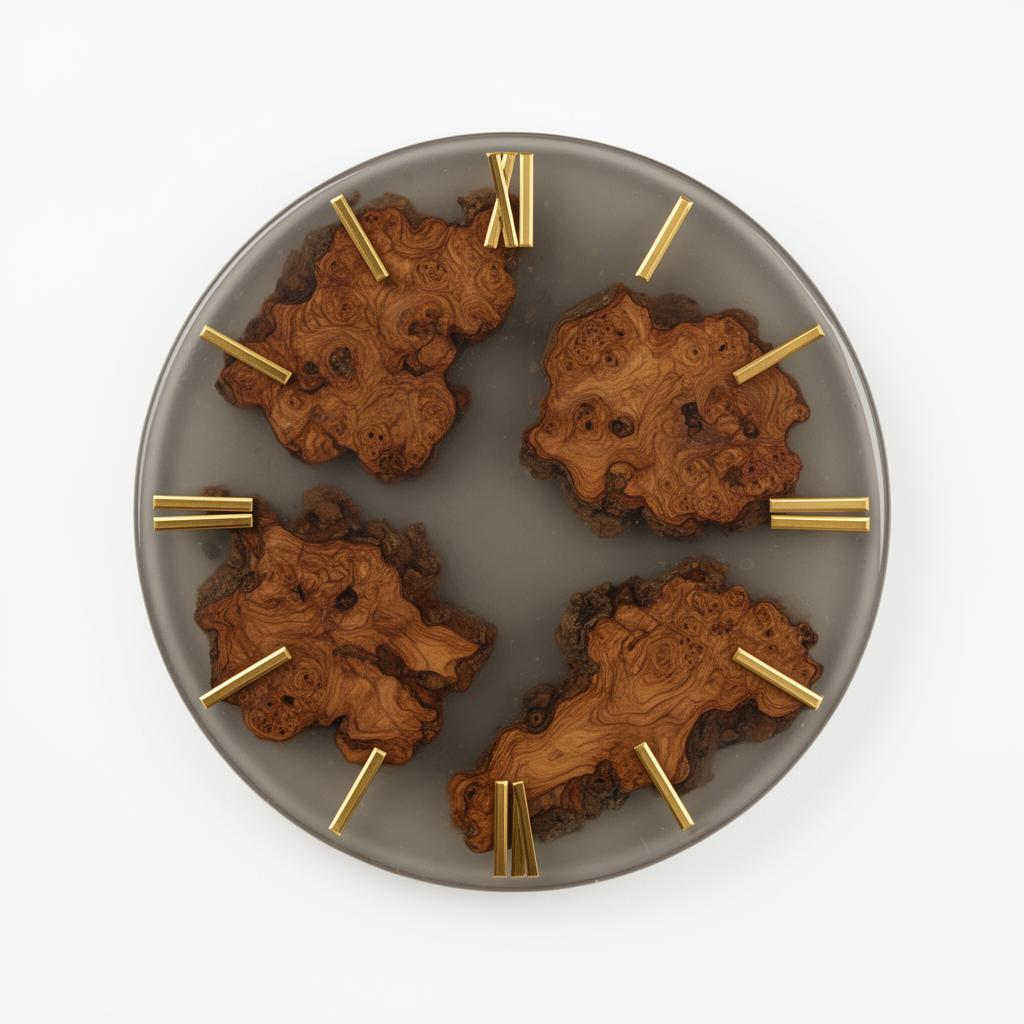
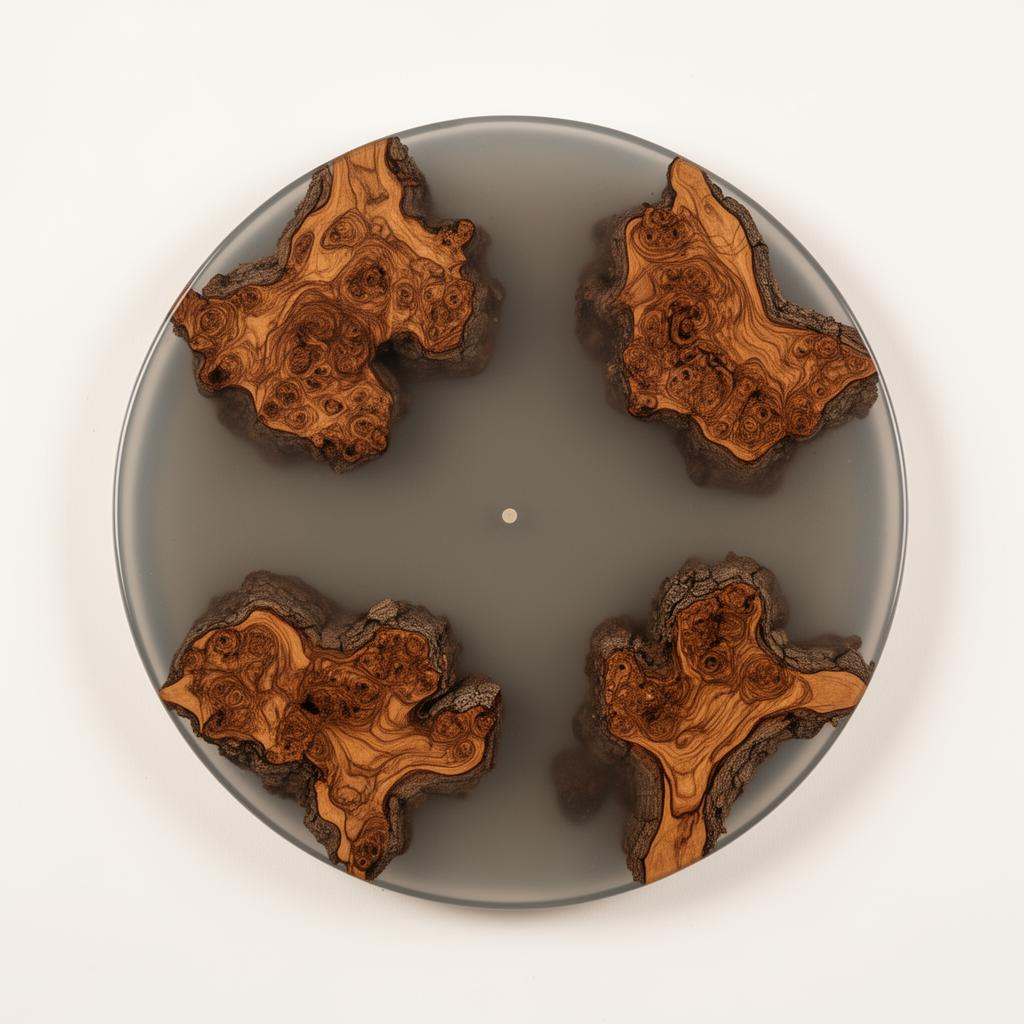
Refine hero clock realism

diff --git a/src/components/HeroClock.tsx b/src/components/HeroClock.tsx
@@ -1,12 +1,52 @@
 import { useEffect, useRef, useState } from "react";
 import clockFace from "@/assets/clock-face-epoxy.png";
 
-const SIZE = 340;
-const C = SIZE / 2;
-const HOUR_LEN = 68;
-const MIN_LEN = 95;
-const SEC_LEN = 108;
-const SEC_TAIL = 22;
+const VIEWBOX_SIZE = 460;
+const CENTER = VIEWBOX_SIZE / 2;
+const MARKER_Y = 44;
+const MARKER_WIDTH = 12;
+const MARKER_HEIGHT = 36;
+
+const HOUR_HAND = `
+  M ${CENTER - 12} ${CENTER + 18}
+  C ${CENTER - 13} ${CENTER - 8}, ${CENTER - 18} ${CENTER - 40}, ${CENTER - 17} ${CENTER - 68}
+  C ${CENTER - 15} ${CENTER - 94}, ${CENTER - 11} ${CENTER - 118}, ${CENTER - 7} ${CENTER - 142}
+  L ${CENTER - 1} ${CENTER - 154}
+  L ${CENTER + 7} ${CENTER - 143}
+  C ${CENTER + 12} ${CENTER - 118}, ${CENTER + 16} ${CENTER - 94}, ${CENTER + 17} ${CENTER - 68}
+  C ${CENTER + 18} ${CENTER - 40}, ${CENTER + 13} ${CENTER - 8}, ${CENTER + 12} ${CENTER + 18}
+  Z
+  M ${CENTER + 10} ${CENTER - 96}
+  L ${CENTER + 31} ${CENTER - 115}
+  L ${CENTER + 17} ${CENTER - 79}
+  Z
+`;
+
+const MINUTE_HAND = `
+  M ${CENTER - 9} ${CENTER + 20}
+  C ${CENTER - 11} ${CENTER - 10}, ${CENTER - 14} ${CENTER - 64}, ${CENTER - 14} ${CENTER - 118}
+  C ${CENTER - 13} ${CENTER - 150}, ${CENTER - 9} ${CENTER - 178}, ${CENTER - 5} ${CENTER - 202}
+  L ${CENTER} ${CENTER - 216}
+  L ${CENTER + 7} ${CENTER - 202}
+  C ${CENTER + 11} ${CENTER - 178}, ${CENTER + 14} ${CENTER - 150}, ${CENTER + 14} ${CENTER - 118}
+  C ${CENTER + 14} ${CENTER - 64}, ${CENTER + 11} ${CENTER - 10}, ${CENTER + 9} ${CENTER + 20}
+  Z
+  M ${CENTER - 12} ${CENTER - 144}
+  L ${CENTER - 38} ${CENTER - 168}
+  L ${CENTER - 18} ${CENTER - 126}
+  Z
+`;
+
+const SECOND_HAND = `
+  M ${CENTER - 2} ${CENTER + 18}
+  L ${CENTER - 1} ${CENTER - 178}
+  L ${CENTER} ${CENTER - 196}
+  L ${CENTER + 2} ${CENTER - 178}
+  L ${CENTER + 3} ${CENTER + 18}
+  Z
+`;
+
+const markerAngles = Array.from({ length: 12 }, (_, index) => index * 30);
 
 const HeroClock = () => {
   const rafRef = useRef<number>(0);
@@ -15,77 +55,115 @@ const HeroClock = () => {
   useEffect(() => {
     const tick = () => {
       const now = new Date();
-      const ms = now.getMilliseconds();
-      const sec = now.getSeconds() + ms / 1000;
-      const min = now.getMinutes() + sec / 60;
-      const hr = (now.getHours() % 12) + min / 60;
-      setAngles({ h: hr * 30, m: min * 6, s: sec * 6 });
+      const milliseconds = now.getMilliseconds();
+      const seconds = now.getSeconds() + milliseconds / 1000;
+      const minutes = now.getMinutes() + seconds / 60;
+      const hours = (now.getHours() % 12) + minutes / 60;
+
+      setAngles({
+        h: hours * 30,
+        m: minutes * 6,
+        s: seconds * 6,
+      });
+
       rafRef.current = requestAnimationFrame(tick);
     };
+
     rafRef.current = requestAnimationFrame(tick);
     return () => cancelAnimationFrame(rafRef.current);
   }, []);
 
   return (
-    <div className="relative inline-block" style={{ width: SIZE, height: SIZE }}>
-      {/* Clock face image — no shadow, no extra styles */}
+    <div className="relative mx-auto h-[380px] w-[380px] sm:h-[420px] sm:w-[420px] md:h-[450px] md:w-[450px]">
       <img
         src={clockFace}
-        alt="Epoxy resin and wood clock"
-        width={SIZE}
-        height={SIZE}
-        className="absolute inset-0 w-full h-full object-cover rounded-full"
-        style={{ clipPath: "circle(48% at center)" }}
+        alt="Premium epoxy resin and wood wall clock"
+        width={1024}
+        height={1024}
+        className="absolute inset-0 h-full w-full rounded-full object-cover"
+        style={{ clipPath: "circle(49.2% at 50% 50%)" }}
         draggable={false}
       />
 
-      {/* SVG hands overlay — exactly same size, centered */}
       <svg
-        width={SIZE}
-        height={SIZE}
-        viewBox={`0 0 ${SIZE} ${SIZE}`}
-        className="absolute inset-0 w-full h-full"
+        viewBox={`0 0 ${VIEWBOX_SIZE} ${VIEWBOX_SIZE}`}
+        className="absolute inset-0 h-full w-full"
+        aria-hidden="true"
         style={{ pointerEvents: "none" }}
       >
         <defs>
-          <linearGradient id="goldH" x1="0" y1="0" x2="0" y2="1">
-            <stop offset="0%" stopColor="#e8c44a" />
-            <stop offset="100%" stopColor="#b8942e" />
+          <linearGradient id="woodFill" x1="0%" y1="0%" x2="100%" y2="100%">
+            <stop offset="0%" stopColor="hsl(24 47% 48%)" />
+            <stop offset="45%" stopColor="hsl(20 43% 35%)" />
+            <stop offset="100%" stopColor="hsl(18 39% 24%)" />
           </linearGradient>
-          <filter id="hShadow">
-            <feDropShadow dx="0.5" dy="1" stdDeviation="1" floodColor="#000" floodOpacity="0.3" />
+
+          <linearGradient id="woodSheen" x1="0%" y1="0%" x2="0%" y2="100%">
+            <stop offset="0%" stopColor="hsl(34 52% 58% / 0.45)" />
+            <stop offset="100%" stopColor="hsl(18 36% 16% / 0.1)" />
+          </linearGradient>
+
+          <filter id="woodDepth" x="-30%" y="-30%" width="160%" height="160%">
+            <feDropShadow dx="0.4" dy="1.6" stdDeviation="1.4" floodColor="hsl(18 28% 14% / 0.32)" />
+          </filter>
+
+          <filter id="pivotDepth" x="-50%" y="-50%" width="200%" height="200%">
+            <feDropShadow dx="0.5" dy="1.2" stdDeviation="1.2" floodColor="hsl(20 22% 12% / 0.28)" />
           </filter>
         </defs>
 
-        {/* Hour hand */}
-        <line
-          x1={C} y1={C + 12} x2={C} y2={C - HOUR_LEN}
-          stroke="url(#goldH)" strokeWidth="5" strokeLinecap="round"
-          transform={`rotate(${angles.h} ${C} ${C})`}
-          filter="url(#hShadow)"
-        />
+        {markerAngles.map((angle) => (
+          <g key={angle} transform={`rotate(${angle} ${CENTER} ${CENTER})`} filter="url(#woodDepth)">
+            <rect
+              x={CENTER - MARKER_WIDTH / 2}
+              y={MARKER_Y}
+              width={MARKER_WIDTH}
+              height={MARKER_HEIGHT}
+              rx="2.5"
+              fill="url(#woodFill)"
+              stroke="hsl(18 34% 18% / 0.5)"
+              strokeWidth="1.1"
+            />
+            <path
+              d={`M ${CENTER} ${MARKER_Y + 6} L ${CENTER} ${MARKER_Y + MARKER_HEIGHT - 6}`}
+              stroke="hsl(18 32% 18% / 0.25)"
+              strokeWidth="1.2"
+              strokeLinecap="round"
+            />
+          </g>
+        ))}
 
-        {/* Minute hand */}
-        <line
-          x1={C} y1={C + 14} x2={C} y2={C - MIN_LEN}
-          stroke="url(#goldH)" strokeWidth="3.2" strokeLinecap="round"
-          transform={`rotate(${angles.m} ${C} ${C})`}
-          filter="url(#hShadow)"
-        />
-
-        {/* Second hand */}
-        <g transform={`rotate(${angles.s} ${C} ${C})`}>
-          <line
-            x1={C} y1={C + SEC_TAIL} x2={C} y2={C - SEC_LEN}
-            stroke="#c9a94e" strokeWidth="1.2" strokeLinecap="round"
+        <g transform={`rotate(${angles.h} ${CENTER} ${CENTER})`} filter="url(#woodDepth)">
+          <path d={HOUR_HAND} fill="url(#woodFill)" stroke="hsl(18 38% 16% / 0.58)" strokeWidth="1.2" strokeLinejoin="round" />
+          <path d={HOUR_HAND} fill="url(#woodSheen)" opacity="0.55" />
+          <path
+            d={`M ${CENTER} ${CENTER + 4} C ${CENTER + 4} ${CENTER - 20}, ${CENTER + 5} ${CENTER - 82}, ${CENTER + 4} ${CENTER - 136}`}
+            fill="none"
+            stroke="hsl(18 34% 18% / 0.18)"
+            strokeWidth="2"
+            strokeLinecap="round"
           />
-          <circle cx={C} cy={C + SEC_TAIL - 4} r="3" fill="#c9a94e" />
         </g>
 
-        {/* Center pivot */}
-        <circle cx={C} cy={C} r="6" fill="#d4af37" filter="url(#hShadow)" />
-        <circle cx={C} cy={C} r="3" fill="#b8942e" />
-        <circle cx={C} cy={C} r="1.5" fill="#e8c44a" opacity="0.7" />
+        <g transform={`rotate(${angles.m} ${CENTER} ${CENTER})`} filter="url(#woodDepth)">
+          <path d={MINUTE_HAND} fill="url(#woodFill)" stroke="hsl(18 38% 16% / 0.58)" strokeWidth="1.2" strokeLinejoin="round" />
+          <path d={MINUTE_HAND} fill="url(#woodSheen)" opacity="0.5" />
+          <path
+            d={`M ${CENTER - 1} ${CENTER + 8} C ${CENTER - 3} ${CENTER - 32}, ${CENTER - 3} ${CENTER - 104}, ${CENTER} ${CENTER - 198}`}
+            fill="none"
+            stroke="hsl(18 34% 18% / 0.18)"
+            strokeWidth="2"
+            strokeLinecap="round"
+          />
+        </g>
+
+        <g transform={`rotate(${angles.s} ${CENTER} ${CENTER})`} filter="url(#woodDepth)">
+          <path d={SECOND_HAND} fill="url(#woodFill)" stroke="hsl(18 38% 16% / 0.45)" strokeWidth="0.8" strokeLinejoin="round" />
+        </g>
+
+        <circle cx={CENTER} cy={CENTER} r="12" fill="hsl(41 50% 59%)" filter="url(#pivotDepth)" />
+        <circle cx={CENTER} cy={CENTER} r="7" fill="hsl(41 43% 43%)" />
+        <circle cx={CENTER} cy={CENTER} r="3" fill="hsl(44 58% 76%)" opacity="0.75" />
       </svg>
     </div>
   );
